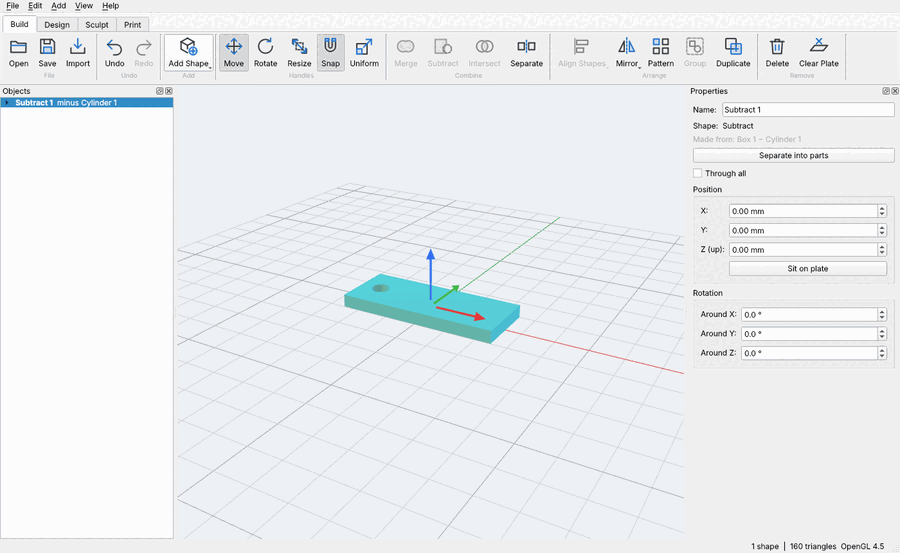
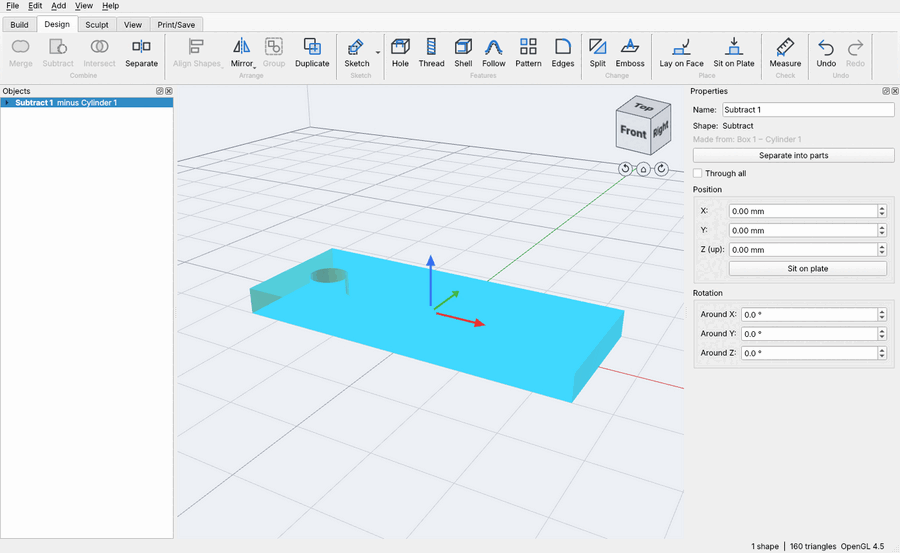
Release notes for 0.44.0 Beta; Quick Start pictures for the new ribbon
The guide's pictures are retaken with the reorganised ribbon, its text
(from tools/make_quick_start.py) follows the new tabs and mentions
Orbit / Pan / Zoom on the View tab.

Claude-Session: https://claude.ai/code/session_012hwuprSZRPjd1SVqvJbrQr

diff --git a/src/app/help/quick-start.html b/src/app/help/quick-start.html
@@ -10,6 +10,7 @@ code { font-family: Consolas, monospace; }
 <li><b>Slide the view:</b> drag with the middle button (or Shift + right button)</li>
 <li><b>Zoom:</b> the mouse wheel</li>
 <li><b>Fit everything in view:</b> F (Home puts the view back to the start)</li>
+<li><b>No middle button, or a touchpad:</b> on the <b>View</b> tab, <b>Orbit</b>, <b>Pan</b> or <b>Zoom</b> puts that on the left button until you click it again</li>
 </ul>
 <h2>1. Add a box and size it</h2><p><b>Build → Add Shape → Box</b>. In <b>Properties</b> on the right, type <b>Width 50</b>, <b>Depth 20</b> and <b>Height 4</b>, pressing Enter after each.</p>
 <p><img src='qrc:/help/guide-1-size.png' width='640'></p>

diff --git a/tools/make_quick_start.py b/tools/make_quick_start.py
@@ -14,6 +14,8 @@ VIEW = [
     ("Slide the view", "drag with the middle button (or Shift + right button)"),
     ("Zoom", "the mouse wheel"),
     ("Fit everything in view", "F (Home puts the view back to the start)"),
+    ("No middle button, or a touchpad", "on the **View** tab, **Orbit**, **Pan** or **Zoom** puts that on the left "
+                                        "button until you click it again"),
 ]
 STEPS = [
     ("Add a box and size it",
@@ -29,7 +31,7 @@ STEPS = [
      "Subtract keeps the first shape you pick and cuts the others out of it.",
      "guide-3-select.png"),
     ("Cut the hole",
-     "Click **Subtract**. The cylinder cuts its hole and disappears. Nothing is lost: double-click a "
+     "**Design → Subtract**. The cylinder cuts its hole and disappears. Nothing is lost: double-click a "
      "step in **Objects** any time to change it, and the tag follows.",
      "guide-4-hole.png"),
     ("Put your name on it",
@@ -37,9 +39,9 @@ STEPS = [
      "click the top of the tag where the words should go, then click **Emboss**.",
      "guide-5-emboss.png"),
     ("Print it",
-     "**Print → Export** saves an STL or 3MF file your slicer opens. **Send to Slicer** opens it in "
+     "**Print/Save → Export** saves an STL or 3MF file your slicer opens. **Send to Slicer** opens it in "
      "your slicer straight away (the first time, it asks which slicer you use). If a shape needs a "
-     "different face down, **Lay on Face** and click that face.",
+     "different face down, **Design → Lay on Face** and click that face.",
      "guide-6-print.png"),
     ("Keep your work",
      "**File → Save** keeps a `.f3d` file with every step, so you can open it later and change the "

diff --git a/docs/release-notes/v0.44.0.md b/docs/release-notes/v0.44.0.md
@@ -1,0 +1,22 @@
+Forge3D 0.44 Beta reorganises the ribbon (with a new **View** tab), adds **recent files**, a **build plate you can size to your printer** with a warning when shapes don't fit, **backup copies** that are offered back after a crash, and measurements shown in the view. Still a beta: keep copies of models you care about.
+
+## Download
+
+- **Forge3D-0.44.0-Setup.exe**: the installer (recommended). Installing over 0.40 updates it in place.
+- **Forge3D-0.44.0-portable.zip**: unzip anywhere and run `Forge3D.exe`.
+
+Windows 10 or 11, 64-bit. **"Windows protected your PC"?** Click **More info**, then **Run anyway** (the installer isn't code-signed yet).
+
+## New since 0.40
+
+- **The ribbon, reorganised**: Build, Design, Sculpt, View and Print/Save. Combine and Arrange are now on Design, with Lay on Face and Sit on Plate; Measure and Undo are on every tab.
+- **View tab**: **Orbit**, **Pan** and **Zoom** put the view on the left mouse button until you click them again (for touchpads and mice without a middle button), plus Fit, Reset View, Section View and Plate Size.
+- **File → Open Recent**: the last six models opened or saved.
+- **Build Plate Size**: set the grid to your printer's bed and height, from common sizes or typed in. Shapes that reach past the plate or above the height turn orange-red, and the status bar counts them.
+- **Backup copies**: unsaved work is backed up every few minutes (2 to 60, or off, in Edit → Backup Copies). If Forge3D doesn't close properly, the next start offers to recover it. Your own files are never touched until you save.
+- **Section View**: clicks now land on what you can see, not on the hidden part.
+- **Measure**: distances are written on their lines in the view, and **Keep on Screen** leaves several showing at once.
+
+No change to the file format: files from 0.40 open in 0.44 and the other way round.
+
+Full details in [CHANGELOG.md](https://github.com/mitchellmarkw/Forge3D/blob/main/CHANGELOG.md). Found a problem? [Open an issue](https://github.com/mitchellmarkw/Forge3D/issues).

diff --git a/docs/QUICK_START.md b/docs/QUICK_START.md
@@ -8,6 +8,7 @@ In about ten minutes you'll make a key tag with a hole for the ring and your nam
 - **Slide the view:** drag with the middle button (or Shift + right button)
 - **Zoom:** the mouse wheel
 - **Fit everything in view:** F (Home puts the view back to the start)
+- **No middle button, or a touchpad:** on the **View** tab, **Orbit**, **Pan** or **Zoom** puts that on the left button until you click it again
 
 ## 1. Add a box and size it
 
@@ -29,7 +30,7 @@ Click **Box 1** in **Objects** on the left, then hold **Ctrl** and click **Cylin
 
 ## 4. Cut the hole
 
-Click **Subtract**. The cylinder cuts its hole and disappears. Nothing is lost: double-click a step in **Objects** any time to change it, and the tag follows.
+**Design → Subtract**. The cylinder cuts its hole and disappears. Nothing is lost: double-click a step in **Objects** any time to change it, and the tag follows.
 
 ![Cut the hole](quick-start/guide-4-hole.png)
 
@@ -41,7 +42,7 @@ Click **Subtract**. The cylinder cuts its hole and disappears. Nothing is lost: 
 
 ## 6. Print it
 
-**Print → Export** saves an STL or 3MF file your slicer opens. **Send to Slicer** opens it in your slicer straight away (the first time, it asks which slicer you use). If a shape needs a different face down, **Lay on Face** and click that face.
+**Print/Save → Export** saves an STL or 3MF file your slicer opens. **Send to Slicer** opens it in your slicer straight away (the first time, it asks which slicer you use). If a shape needs a different face down, **Design → Lay on Face** and click that face.
 
 ![Print it](quick-start/guide-6-print.png)
 

diff --git a/ROADMAP.md b/ROADMAP.md
@@ -57,7 +57,7 @@ Gate to Phase 2: a new user prints a customised part within 10 minutes.
 | 32 | Open Recent; build plate size; the ribbon reorganised, with a View tab (Orbit / Pan / Zoom on the left button) | Done (0.41.0) |
 | 33 | Printer height, and a warning colour for shapes that don't fit the plate | Done (0.42.0) |
 | 34 | Backup copies while you work, offered back after a crash | Done (0.43.0) |
-| 35 | Backup settings; clicks respect the section view; measurements shown and kept in the view | **Delivered for testing** |
+| 35 | Backup settings; clicks respect the section view; measurements shown and kept in the view | Done (0.44.0, released) |
 
 Separate track: sculpt-engine prototype (one Draw brush on a 1M-triangle mesh at 60 fps).
 

diff --git a/CHANGELOG.md b/CHANGELOG.md
@@ -15,6 +15,8 @@
   picks, so you can measure something else and see several at once. Kept ones stay
   after Done. **Remove Kept** takes them away; they're also taken away when the model
   changes, since the numbers might no longer be true.
+- The Quick Start guide's pictures show the new ribbon, and it mentions Orbit / Pan / Zoom
+  on the View tab.
 - 222 unit tests (1 new: picking with a section).
 
 ## 0.43.0 Beta — Slice 34: Backup copies and recovery (2026-11-16)
